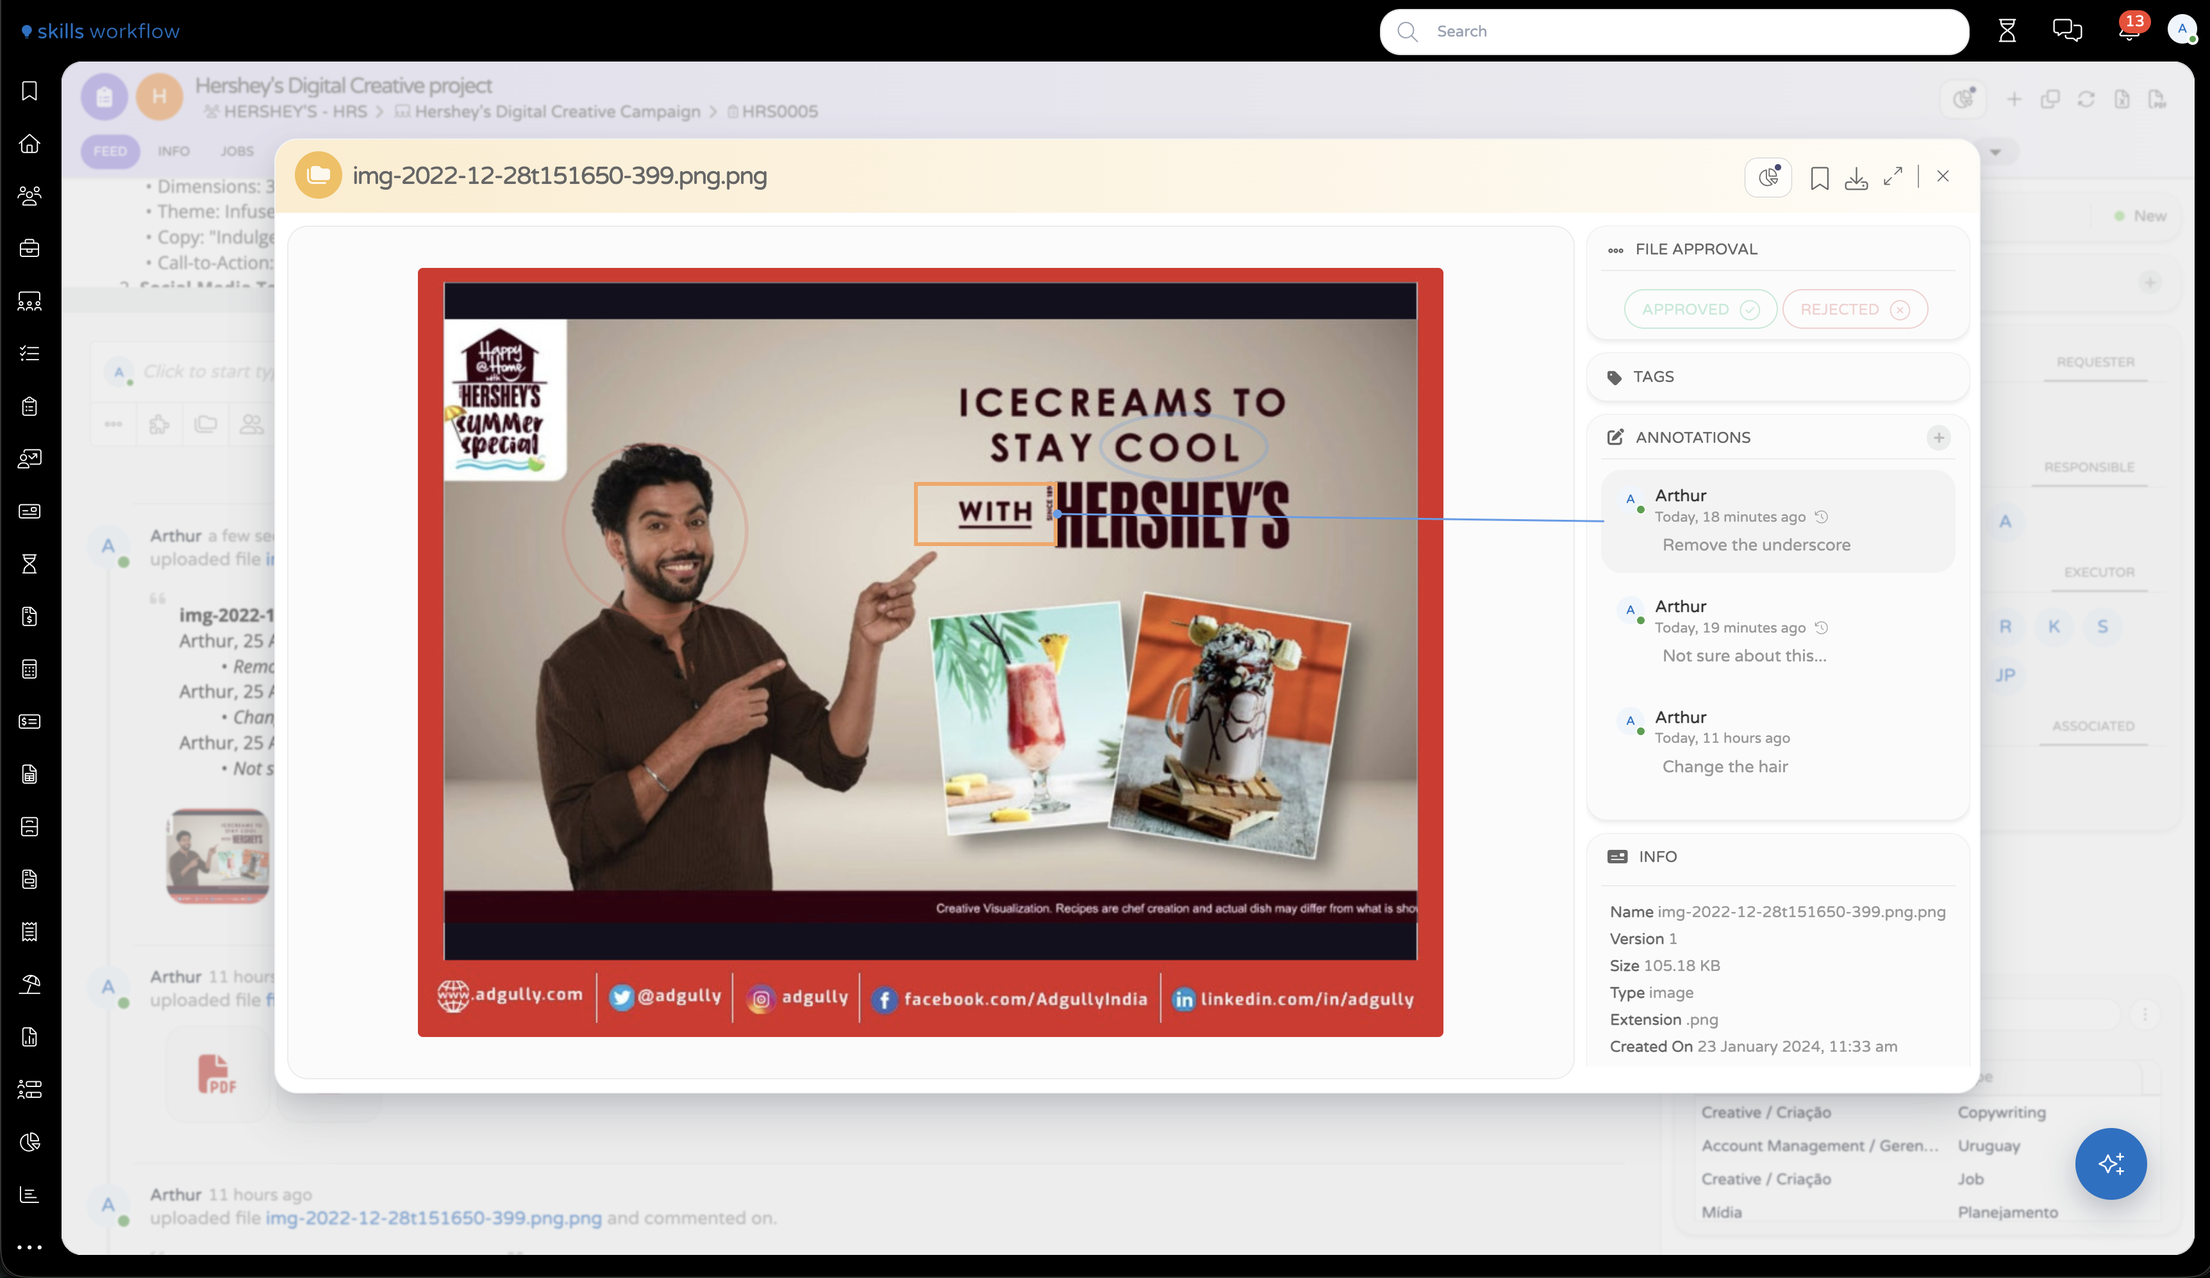
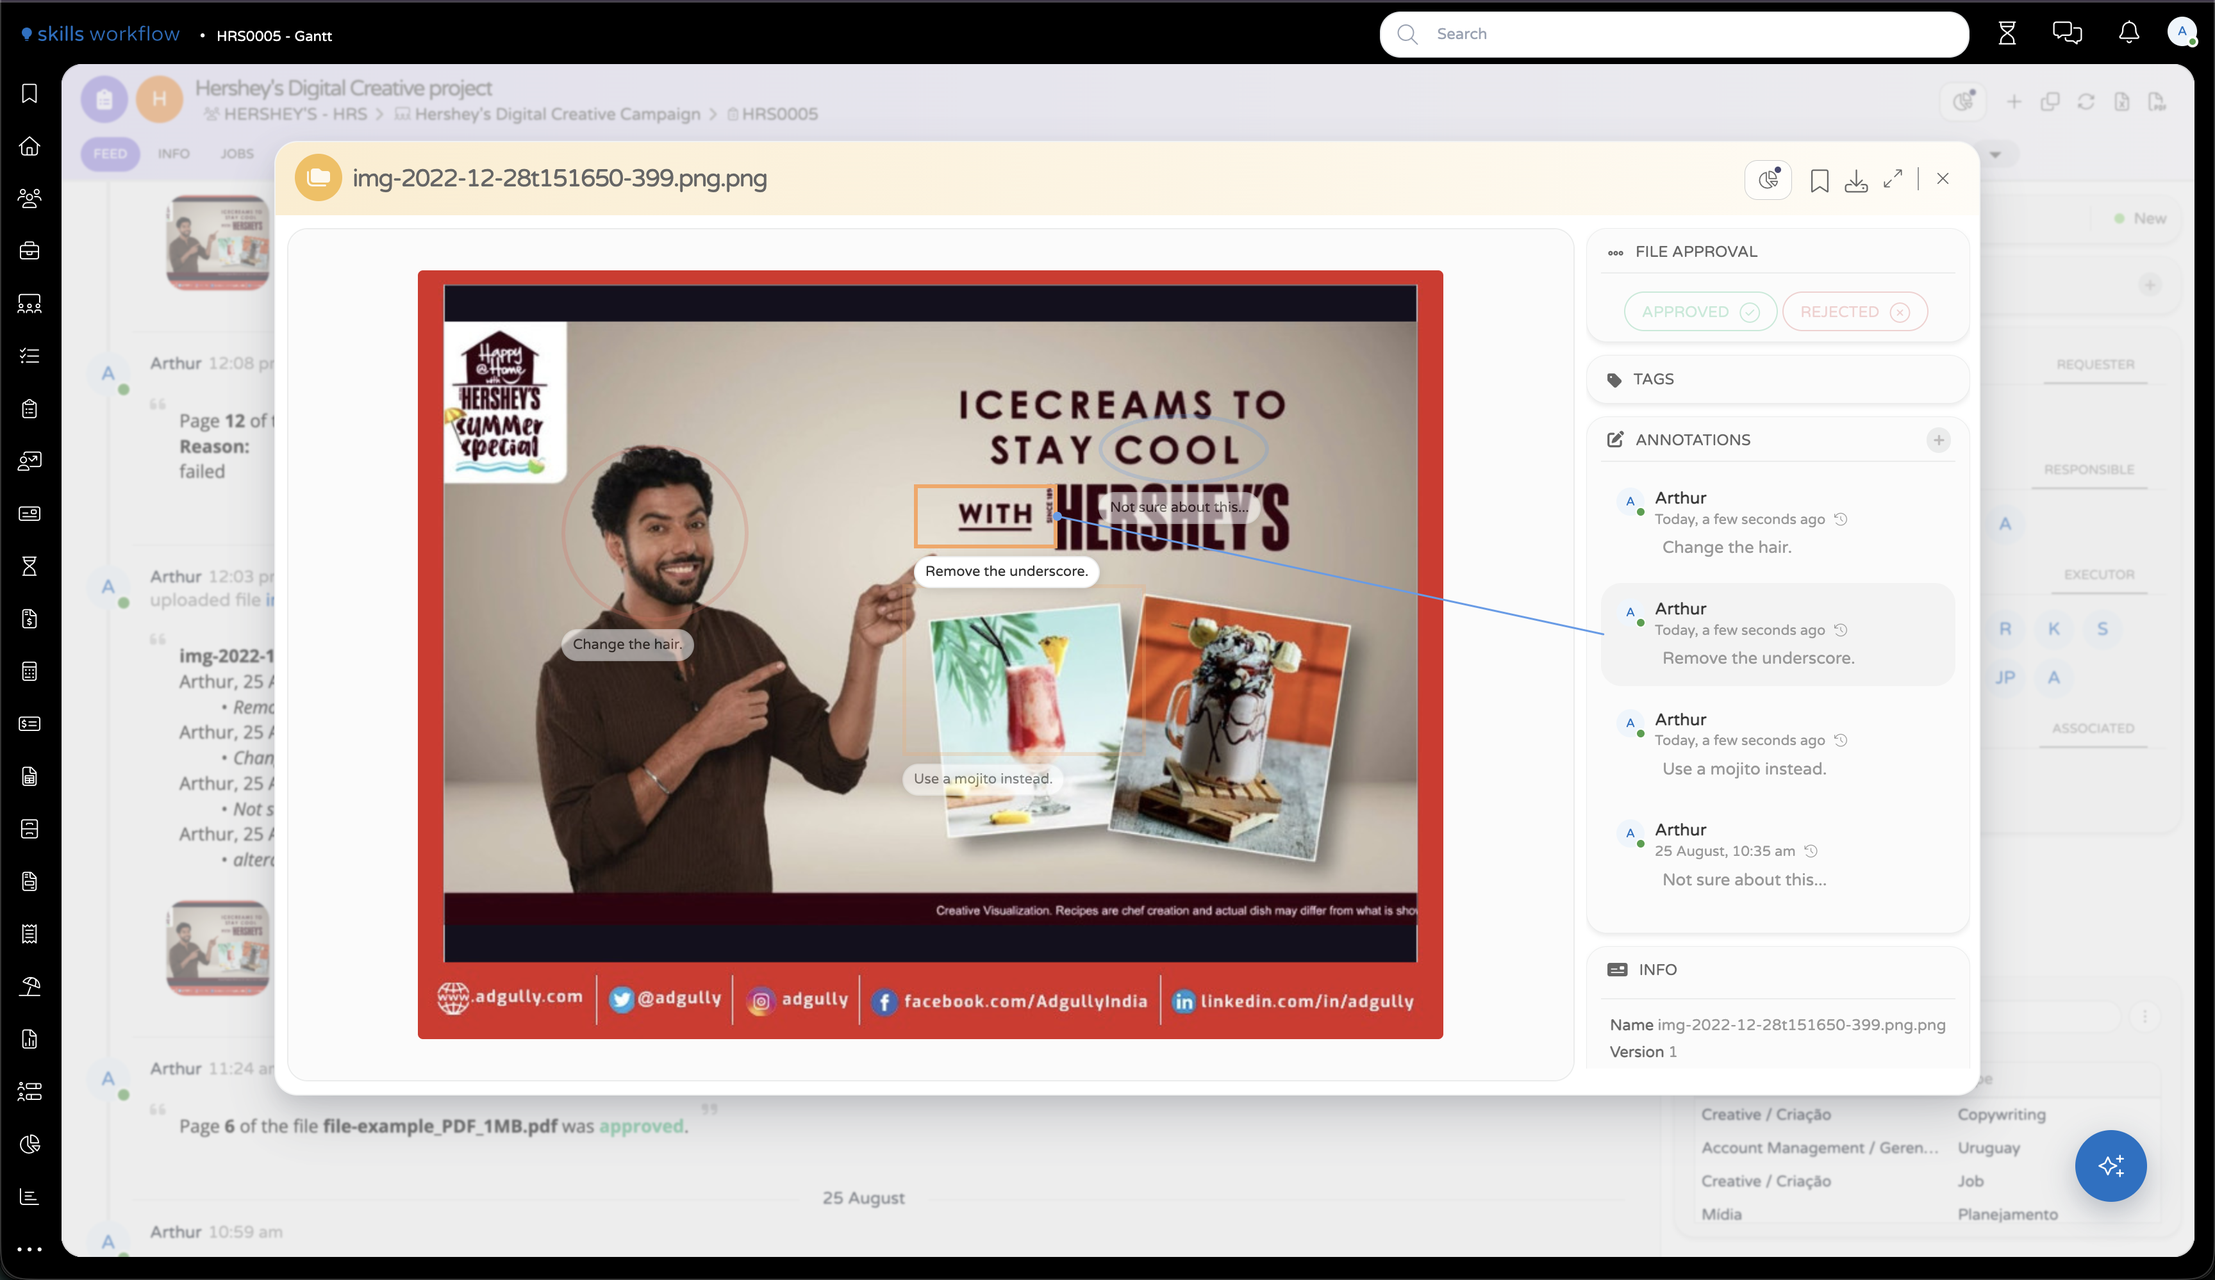
docs: clarify annotation collaboration and center images (#826)
* docs: clarify annotation collaboration and center images

* updated image

* style: align documentation screenshots with product radius

* docs: align annotations guidance with preview behavior

diff --git a/SkillsWorkflow/src/css/custom.css b/SkillsWorkflow/src/css/custom.css
@@ -29,6 +29,9 @@
   --sw-muted: #868c98;
   --sw-line: rgba(15, 23, 42, 0.12);
   --sw-bg-alt: #ebf2ff;
+  --sw-screenshot-radius: 16px;
+  --sw-screenshot-border: #eaecec;
+  --sw-screenshot-shadow: 0 5px 8px 2px rgba(0, 0, 0, 0.149);
 }
 
 /* You can override the default Infima variables here. */
@@ -463,27 +466,25 @@ img[alt="crafted-love"] {
   width: 250px;
 }
 
-img[alt="img-box-shadow"] {
-  box-shadow: 0px 1px 5px 0px rgb(0, 0, 0, 20%);
-  border: 2px solid lightgrey;
-  border-radius: 5px;
-}
-
-img[alt="img-box-shadow-feed"] {
-  box-shadow: 0px 1px 5px 0px rgb(0, 0, 0, 20%);
-  border: 2px solid lightgrey;
-  border-radius: 5px;
+img[alt="img-box-shadow"],
+img[alt="img-box-shadow-feed"],
+img[alt="img-box-shadow-200"],
+img[alt="img-box-shadow-sm"],
+img[alt="img-box-shadow-popup"] {
   display: block;
-  width: 780px;
   max-width: 100%;
   height: auto;
   margin: 1rem auto;
+  box-shadow: var(--sw-screenshot-shadow);
+  border: 1px solid var(--sw-screenshot-border);
+  border-radius: var(--sw-screenshot-radius);
+}
+
+img[alt="img-box-shadow-feed"] {
+  width: 780px;
 }
 
 img[alt="img-box-shadow-200"] {
-  box-shadow: 0px 1px 5px 0px rgb(0, 0, 0, 20%);
-  border: 2px solid lightgrey;
-  border-radius: 5px;
   width: 200px;
 }
 
@@ -495,19 +496,19 @@ img[alt="img-symbol-box-shadow"] {
 }
 
 img[alt="img-box-shadow-sm"] {
-  box-shadow: 0px 1px 5px 0px rgb(0, 0, 0, 20%);
-  border: 2px solid lightgrey;
-  border-radius: 5px;
   width: 250px;
 }
 
 img[alt="img-box-shadow-popup"] {
-  box-shadow: 0px 1px 5px 0px rgb(0, 0, 0, 20%);
-  border: 2px solid lightgrey;
-  border-radius: 5px;
   width: 780px;
-  max-width: 100%;
-  height: auto;
+}
+
+img[alt="img-box-shadow"] + figcaption,
+img[alt="img-box-shadow-feed"] + figcaption,
+img[alt="img-box-shadow-200"] + figcaption,
+img[alt="img-box-shadow-sm"] + figcaption,
+img[alt="img-box-shadow-popup"] + figcaption {
+  text-align: center;
 }
 
 img[alt="img-with-border"] {

diff --git a/SkillsWorkflow/i18n/pt/docusaurus-plugin-content-docs/current/customization/annotations/index.md b/SkillsWorkflow/i18n/pt/docusaurus-plugin-content-docs/current/customization/annotations/index.md
@@ -16,6 +16,8 @@ As anotações aparecem no painel lateral do preview de ficheiros, no módulo **
 
 O botão **+** no módulo **Annotations** inicia uma nova anotação. Clicar no título/header do módulo não abre o editor.
 
+Em vídeos, o botão **+** fica disponível depois de os metadados do preview carregarem. Em PDFs, fica disponível depois de uma página PDF ser renderizada.
+
 Previews suportados:
 
 - Imagens.
@@ -29,7 +31,7 @@ Previews suportados:
 
 A toolbar de anotações aparece dentro do módulo **Annotations** enquanto o editor de anotações está ativo. Já não aparece por cima do preview.
 
-A toolbar disponibiliza undo/redo, Frame, Ellipse, Arrow, Line, Freehand, Highlight e um dropdown de cor. Save e Cancel aparecem abaixo da anotação que está a ser editada.
+A toolbar disponibiliza undo/redo, Frame, Ellipse, Arrow, Line, Freehand, Highlight e um dropdown de cor. Save e Cancel aparecem no cartão da anotação ao editar um comentário ou abaixo da toolbar quando não está a ser editado nenhum cartão de anotação.
 
 ![img-box-shadow-sm](/img/annotations/02-annotation-toolbar.png)
 <figcaption>Toolbar de anotações dentro do módulo Annotations</figcaption>
@@ -37,6 +39,8 @@ A toolbar disponibiliza undo/redo, Frame, Ellipse, Arrow, Line, Freehand, Highli
 ## Comentários e painel lateral
 
 Cada cartão de anotação mostra autor, data/hora, texto, timestamp de vídeo quando aplicável, número de página de PDF quando aplicável e indicador de histórico quando existem versões anteriores do texto.
+
+No preview, as anotações com comentário também apresentam uma etiqueta curta com o comentário junto ao respetivo marker.
 
 Selecionar uma anotação no painel lateral abre-a no preview. Selecionar uma anotação de outro utilizador mostra-a, mas não apresenta o editor inline.
 
@@ -79,9 +83,9 @@ As anotações de PDF ficam associadas à página onde foram criadas. Quando os 
 
 ## Colaboração e feed
 
-As anotações feitas por utilizadores que não são donos do ficheiro são guardadas no ficheiro original, e não numa cópia temporária duplicada. Quando estas alterações são guardadas ao fechar o preview, o Skills Workflow cria um post no feed que faz referência ao ficheiro original revisto.
+Os utilizadores que não são donos do ficheiro podem adicionar anotações ao ficheiro original. As suas anotações são guardadas juntamente com as de outros revisores; não é criada uma cópia temporária duplicada.
 
-Vários revisores podem adicionar anotações ao mesmo ficheiro original.
+Quando estas alterações são guardadas ao fechar o preview, o Skills Workflow cria um post no feed que faz referência ao ficheiro original revisto. O post inclui os comentários já carregados nessa sessão de revisão e os novos comentários adicionados pelo revisor.
 
 ![img-box-shadow-popup](/img/annotations/08-annotation-feed-post.png)
 <figcaption>Post no feed criado depois de guardar anotações</figcaption>
@@ -102,4 +106,4 @@ Para ativar anotações para um cliente:
 Notas de configuração:
 
 - A aprovação de páginas PDF é uma feature separada e não é obrigatória para usar anotações.
-- Se os utilizadores não virem o painel de anotações depois da ativação, confirmar que o tipo de ficheiro é suportado e que a configuração foi guardada no ambiente/cliente correto.
+- Se os utilizadores não virem o painel de anotações depois da ativação, confirmar que **Enable annotations** está ativo e que o ficheiro é mostrado num preview suportado.

diff --git a/SkillsWorkflow/i18n/es/docusaurus-plugin-content-docs/current/customization/annotations/index.md b/SkillsWorkflow/i18n/es/docusaurus-plugin-content-docs/current/customization/annotations/index.md
@@ -16,6 +16,8 @@ Las anotaciones aparecen en el panel lateral del preview, en el módulo **Annota
 
 El botón **+** del módulo **Annotations** inicia una nueva anotación. Hacer clic en el título/header del módulo no abre el editor.
 
+En vídeos, el botón **+** está disponible después de que se carguen los metadatos del preview. En PDFs, está disponible después de que se haya renderizado una página PDF.
+
 Previews soportados:
 
 - Imágenes.
@@ -29,7 +31,7 @@ Previews soportados:
 
 La toolbar de anotaciones aparece dentro del módulo **Annotations** mientras el editor de anotaciones está activo. Ya no aparece flotando sobre el preview.
 
-La toolbar incluye undo/redo, Frame, Ellipse, Arrow, Line, Freehand, Highlight y un dropdown de color. Save y Cancel aparecen debajo de la anotación que se está editando.
+La toolbar incluye undo/redo, Frame, Ellipse, Arrow, Line, Freehand, Highlight y un dropdown de color. Save y Cancel aparecen en la tarjeta de anotación al editar un comentario, o debajo de la toolbar cuando no se está editando ninguna tarjeta de anotación.
 
 ![img-box-shadow-sm](/img/annotations/02-annotation-toolbar.png)
 <figcaption>Toolbar de anotaciones dentro del módulo Annotations</figcaption>
@@ -37,6 +39,8 @@ La toolbar incluye undo/redo, Frame, Ellipse, Arrow, Line, Freehand, Highlight y
 ## Comentarios y panel lateral
 
 Cada tarjeta de anotación muestra autor, fecha/hora, texto, timestamp de vídeo cuando aplica, número de página PDF cuando aplica e indicador de histórico cuando existen versiones anteriores del texto.
+
+En el preview, las anotaciones con un comentario también muestran una etiqueta corta con el comentario junto a su marker.
 
 Seleccionar una anotación en el panel lateral la abre en el preview. Seleccionar una anotación de otro usuario la muestra, pero no presenta el editor inline.
 
@@ -79,9 +83,9 @@ Las anotaciones de PDF se asocian a la página donde se crearon. Cuando los usua
 
 ## Colaboración y feed
 
-Las anotaciones hechas por usuarios que no son propietarios del archivo se guardan en el archivo original, no en una copia temporal duplicada. Cuando estos cambios se guardan al cerrar el preview, Skills Workflow crea un post en el feed que hace referencia al archivo original revisado.
+Los usuarios que no son propietarios del archivo pueden añadir anotaciones al archivo original. Sus anotaciones se guardan junto a las de otros revisores; no se crea una copia temporal duplicada.
 
-Varios revisores pueden añadir anotaciones al mismo archivo original.
+Cuando estos cambios se guardan al cerrar el preview, Skills Workflow crea un post en el feed que hace referencia al archivo original revisado. El post incluye los comentarios ya cargados en esa sesión de revisión y los comentarios nuevos añadidos por el revisor.
 
 ![img-box-shadow-popup](/img/annotations/08-annotation-feed-post.png)
 <figcaption>Post en el feed creado después de guardar anotaciones</figcaption>
@@ -102,4 +106,4 @@ Para activar anotaciones para un cliente:
 Notas de configuración:
 
 - La aprobación de páginas PDF es una feature separada y no es obligatoria para usar anotaciones.
-- Si los usuarios no ven el panel de anotaciones después de la activación, confirmar que el tipo de archivo es soportado y que la configuración se guardó en el ambiente/cliente correcto.
+- Si los usuarios no ven el panel de anotaciones después de la activación, confirmar que **Enable annotations** está activado y que el archivo se muestra en un preview soportado.

diff --git a/SkillsWorkflow/i18n/pt-br/docusaurus-plugin-content-docs/current/customization/annotations/index.md b/SkillsWorkflow/i18n/pt-br/docusaurus-plugin-content-docs/current/customization/annotations/index.md
@@ -16,6 +16,8 @@ As anotações aparecem no painel lateral do preview de arquivos, no módulo **A
 
 O botão **+** no módulo **Annotations** inicia uma nova anotação. Clicar no título/header do módulo não abre o editor.
 
+Em vídeos, o botão **+** fica disponível depois que os metadados do preview são carregados. Em PDFs, fica disponível depois que uma página PDF é renderizada.
+
 Previews suportados:
 
 - Imagens.
@@ -29,7 +31,7 @@ Previews suportados:
 
 A toolbar de anotações aparece dentro do módulo **Annotations** enquanto o editor de anotações está ativo. Ela não aparece mais flutuando sobre o preview.
 
-A toolbar disponibiliza undo/redo, Frame, Ellipse, Arrow, Line, Freehand, Highlight e um dropdown de cor. Save e Cancel aparecem abaixo da anotação que está sendo editada.
+A toolbar disponibiliza undo/redo, Frame, Ellipse, Arrow, Line, Freehand, Highlight e um dropdown de cor. Save e Cancel aparecem no cartão da anotação ao editar um comentário ou abaixo da toolbar quando nenhum cartão de anotação está sendo editado.
 
 ![img-box-shadow-sm](/img/annotations/02-annotation-toolbar.png)
 <figcaption>Toolbar de anotações dentro do módulo Annotations</figcaption>
@@ -37,6 +39,8 @@ A toolbar disponibiliza undo/redo, Frame, Ellipse, Arrow, Line, Freehand, Highli
 ## Comentários e painel lateral
 
 Cada cartão de anotação mostra autor, data/hora, texto, timestamp de vídeo quando aplicável, número de página de PDF quando aplicável e indicador de histórico quando existem versões anteriores do texto.
+
+No preview, as anotações com comentário também exibem uma etiqueta curta com o comentário ao lado do respectivo marker.
 
 Selecionar uma anotação no painel lateral abre a anotação no preview. Selecionar uma anotação de outro usuário a mostra, mas não apresenta o editor inline.
 
@@ -79,9 +83,9 @@ As anotações de PDF ficam associadas à página onde foram criadas. Quando os 
 
 ## Colaboração e feed
 
-As anotações feitas por usuários que não são donos do arquivo são salvas no arquivo original, e não em uma cópia temporária duplicada. Quando essas alterações são salvas ao fechar o preview, o Skills Workflow cria um post no feed que faz referência ao arquivo original revisado.
+Os usuários que não são donos do arquivo podem adicionar anotações ao arquivo original. Suas anotações são salvas junto às de outros revisores; não é criada uma cópia temporária duplicada.
 
-Vários revisores podem adicionar anotações ao mesmo arquivo original.
+Quando essas alterações são salvas ao fechar o preview, o Skills Workflow cria um post no feed que faz referência ao arquivo original revisado. O post inclui os comentários já carregados nessa sessão de revisão e os novos comentários adicionados pelo revisor.
 
 ![img-box-shadow-popup](/img/annotations/08-annotation-feed-post.png)
 <figcaption>Post no feed criado depois de salvar anotações</figcaption>
@@ -102,4 +106,4 @@ Para ativar anotações para um cliente:
 Notas de configuração:
 
 - A aprovação de páginas PDF é uma feature separada e não é obrigatória para usar anotações.
-- Se os usuários não virem o painel de anotações depois da ativação, confirmar que o tipo de arquivo é suportado e que a configuração foi salva no ambiente/cliente correto.
+- Se os usuários não virem o painel de anotações depois da ativação, confirmar que **Enable annotations** está ativado e que o arquivo é exibido em um preview suportado.

diff --git a/SkillsWorkflow/docs/customization/annotations/index.md b/SkillsWorkflow/docs/customization/annotations/index.md
@@ -16,6 +16,8 @@ Annotations appear in the file preview side panel under the **Annotations** modu
 
 The **+** button in the **Annotations** module starts a new annotation. Clicking the module title/header does not start the editor.
 
+For videos, the **+** button is available after the preview's metadata has loaded. For PDFs, it is available after a PDF page has rendered.
+
 Supported file previews:
 
 - Images.
@@ -29,7 +31,7 @@ Supported file previews:
 
 The annotation toolbar is shown inside the **Annotations** module while the annotation editor is active. It no longer floats over the preview.
 
-The toolbar provides undo/redo, Frame, Ellipse, Arrow, Line, Freehand, Highlight, and a color dropdown. Save and Cancel are shown below the annotation being edited.
+The toolbar provides undo/redo, Frame, Ellipse, Arrow, Line, Freehand, Highlight, and a color dropdown. Save and Cancel are shown in the annotation card when editing a comment, or below the toolbar when no annotation card is being edited.
 
 ![img-box-shadow-sm](/img/annotations/02-annotation-toolbar.png)
 <figcaption>Annotation toolbar inside the Annotations module</figcaption>
@@ -37,6 +39,8 @@ The toolbar provides undo/redo, Frame, Ellipse, Arrow, Line, Freehand, Highlight
 ## Comments and side panel
 
 Each annotation card shows the author, date/time, comment text, video timestamp when applicable, PDF page number when applicable, and a history indicator when previous text versions exist.
+
+On the preview, annotations with a comment also show a short comment label beside their marker.
 
 Selecting an annotation in the side panel opens it on the preview. Selecting another user's annotation shows it, but does not show the inline editor.
 
@@ -79,9 +83,9 @@ PDF annotations are associated with the page where they were created. When users
 
 ## Collaboration and feed
 
-Annotations made by users who do not own the file are saved on the original file, not on a duplicated temporary copy. When those changes are saved on preview close, Skills Workflow creates a feed post that references the reviewed original file.
+Users who do not own the file can add annotations to the original file. Their annotations are saved alongside annotations from other reviewers; no duplicated temporary copy is created.
 
-Multiple reviewers can add annotations to the same original file.
+When those changes are saved on preview close, Skills Workflow creates a feed post that references the reviewed original file. The post includes the comments already loaded in that review session and any new comments added by the reviewer.
 
 ![img-box-shadow-popup](/img/annotations/08-annotation-feed-post.png)
 <figcaption>Feed post created after annotations are saved</figcaption>
@@ -102,4 +106,4 @@ To enable annotations for a client:
 Configuration notes:
 
 - PDF page approval is a separate feature and is not required to use annotations.
-- If users cannot see the annotation panel after activation, confirm that the file type is supported and that the configuration was saved for the correct environment/client.
+- If users cannot see the annotation panel after activation, confirm that **Enable annotations** is enabled and that the file is shown in a supported preview.
